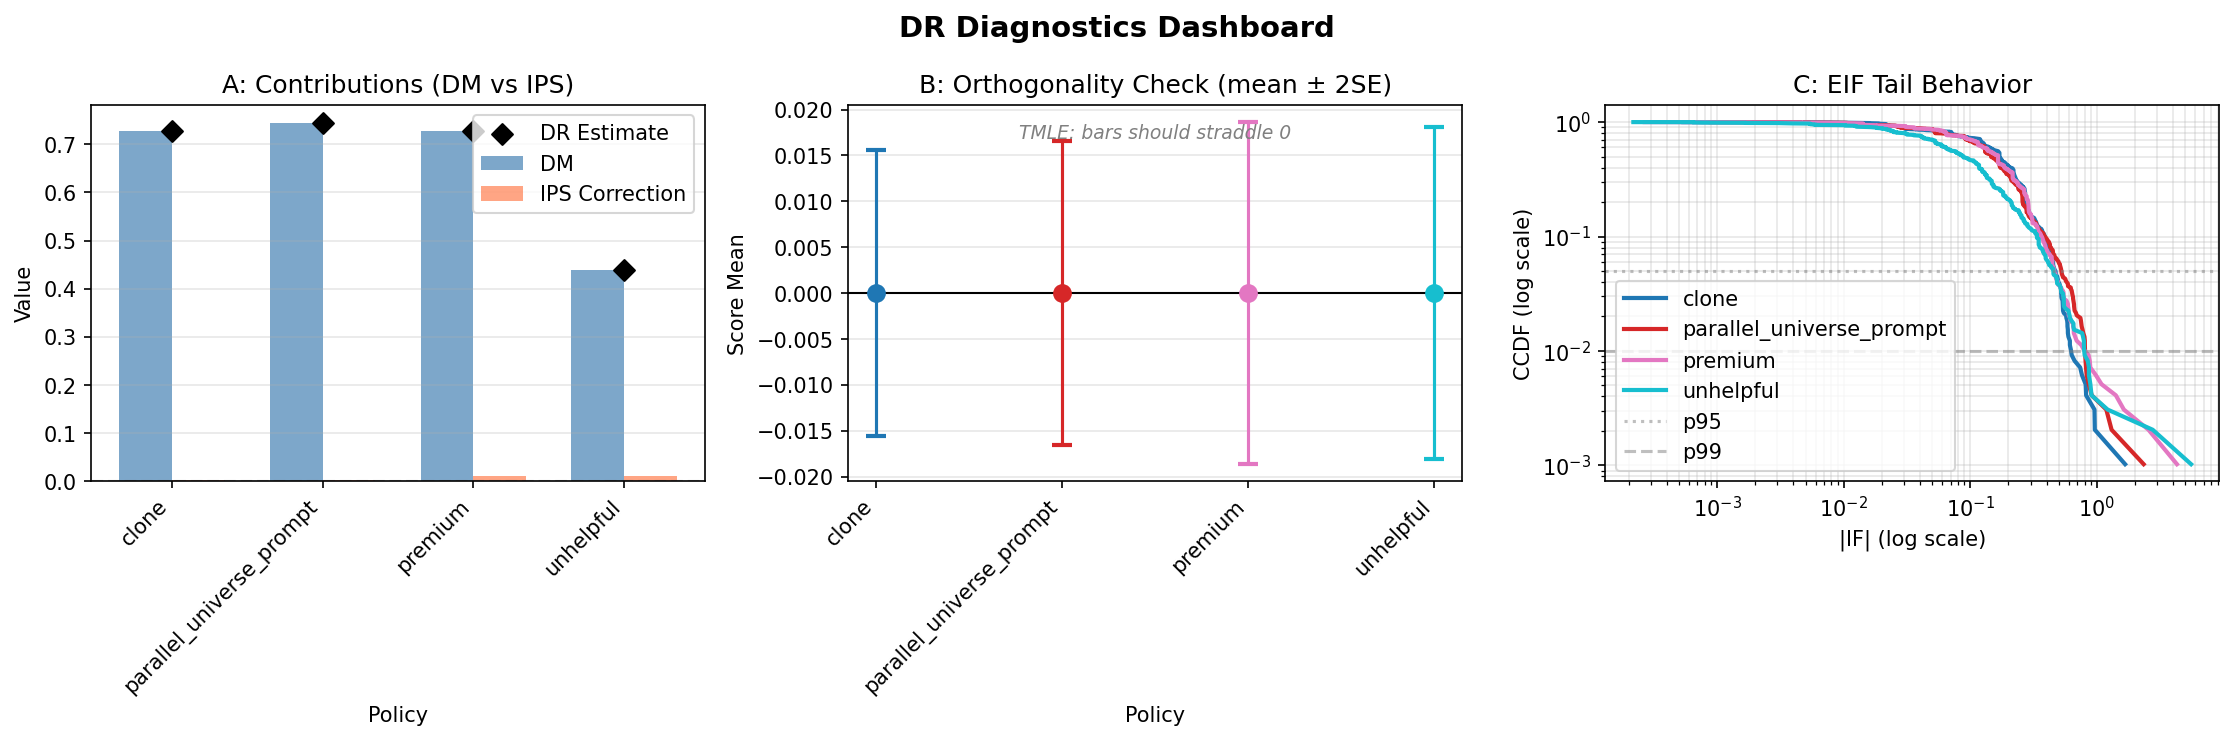
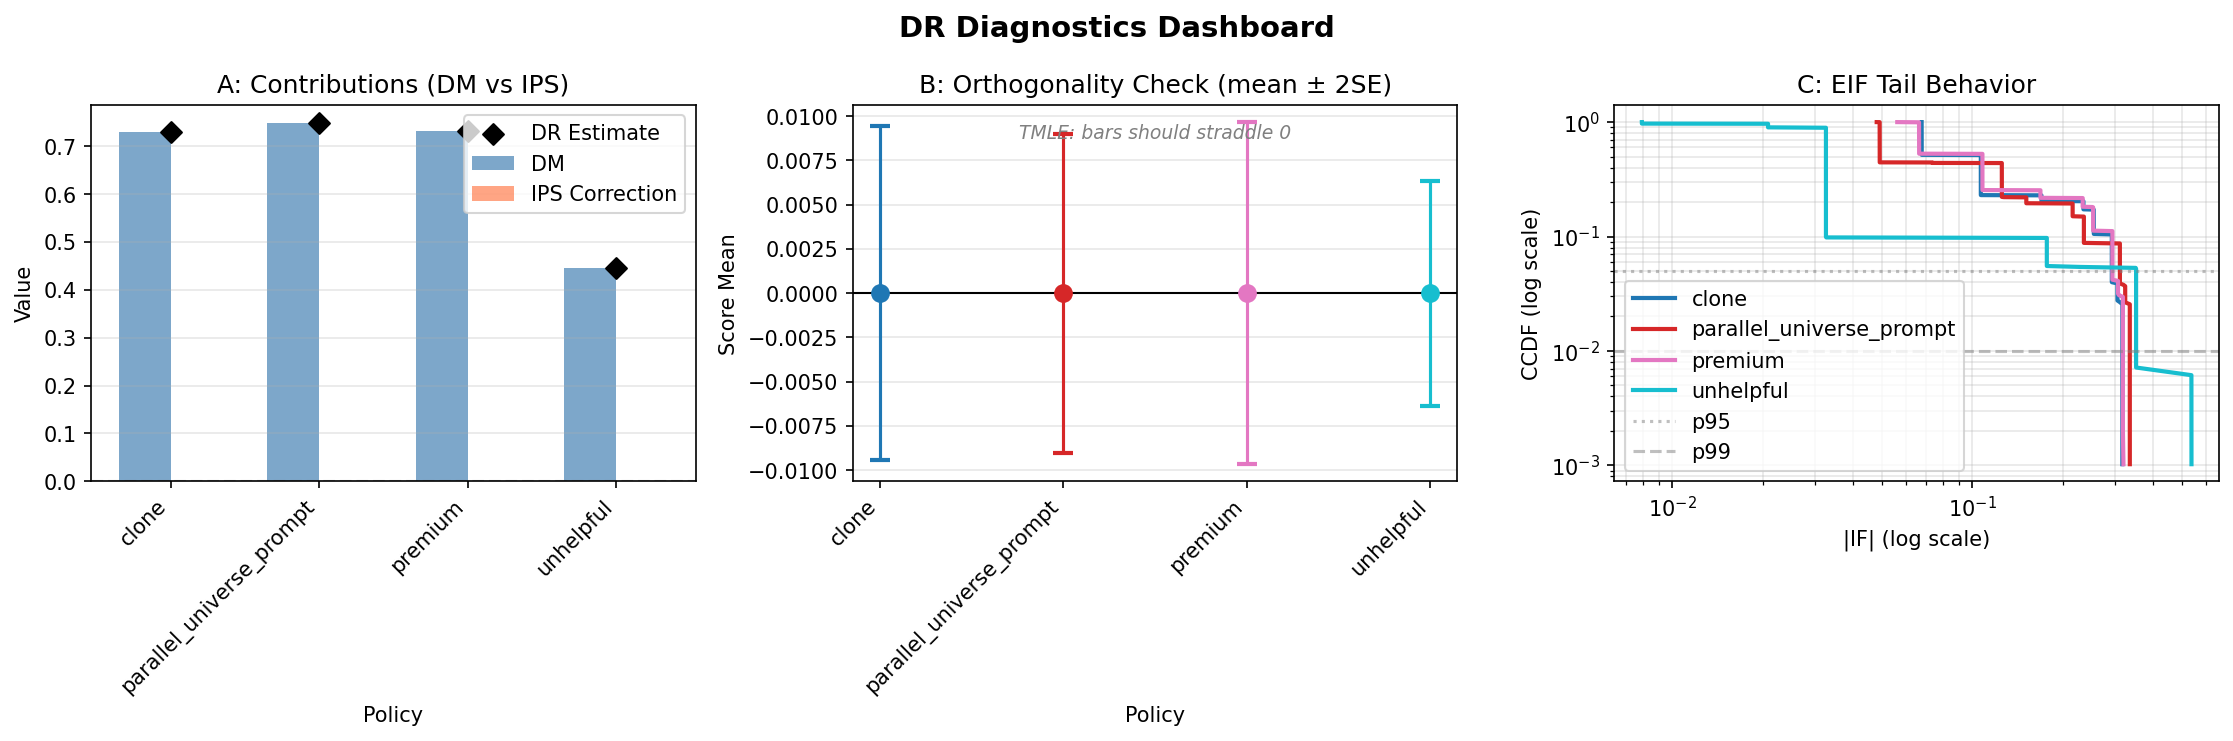
fix: Populate DR decomposition values in diagnostics
- Add dm_ips_decompositions and orthogonality_scores fields to DRDiagnostics
- Populate these fields in dr_base.py when creating diagnostics
- Update display utility to show decomposition values as fallback
- Build DR diagnostics directly in estimate() instead of relying on DiagnosticSuite
- Now DR diagnostics show actual DM/IPS decomposition values instead of zeros

diff --git a/cje/estimators/dr_base.py b/cje/estimators/dr_base.py
@@ -591,13 +591,27 @@ class DREstimator(BaseCJEEstimator):
             "dm_ips_decompositions": self._dm_ips_decompositions,  # New: DM-IPS breakdown
         }
 
+        # Get IPS diagnostics if available
+        ips_diag = None
+        if hasattr(self.ips_estimator, "get_diagnostics"):
+            ips_diag = self.ips_estimator.get_diagnostics()
+
+        # Build DR diagnostics directly
+        dr_diagnostics = self._build_dr_diagnostics(
+            estimates,
+            standard_errors,
+            n_samples_used,
+            dr_diagnostics_per_policy,
+            ips_diag,
+        )
+
         return EstimationResult(
             estimates=np.array(estimates),
             standard_errors=np.array(standard_errors),
             n_samples_used=n_samples_used,
             method="dr_base",
             influence_functions=self._influence_functions,
-            diagnostics=None,  # Will be populated by fit_and_estimate in base class
+            diagnostics=dr_diagnostics,
             metadata=metadata,
         )
 
@@ -682,6 +696,8 @@ class DREstimator(BaseCJEEstimator):
                 outcome_rmse_mean=outcome_rmse_mean,
                 worst_if_tail_ratio=worst_if_tail,
                 dr_diagnostics_per_policy=dr_diagnostics_per_policy,
+                dm_ips_decompositions=self._dm_ips_decompositions,
+                orthogonality_scores=self._orthogonality_scores,
                 influence_functions=self._influence_functions,
             )
         else:
@@ -711,6 +727,8 @@ class DREstimator(BaseCJEEstimator):
                 outcome_rmse_mean=outcome_rmse_mean,
                 worst_if_tail_ratio=worst_if_tail,
                 dr_diagnostics_per_policy=dr_diagnostics_per_policy,
+                dm_ips_decompositions=self._dm_ips_decompositions,
+                orthogonality_scores=self._orthogonality_scores,
                 influence_functions=self._influence_functions,
             )
 

diff --git a/cje/utils/diagnostics/display.py b/cje/utils/diagnostics/display.py
@@ -151,8 +151,17 @@ def format_dr_diagnostic_summary(
                 ips_corr = policy_diag.get("ips_corr_mean", 0.0)
                 if_tail = policy_diag.get("if_tail_ratio_99_5", 0.0)
             else:
-                dm = 0.0
-                ips_corr = 0.0
+                # Try decomposition if policy diagnostics not available
+                if (
+                    diagnostics.dm_ips_decompositions
+                    and policy in diagnostics.dm_ips_decompositions
+                ):
+                    decomp = diagnostics.dm_ips_decompositions[policy]
+                    dm = decomp.get("dm_component", 0.0)
+                    ips_corr = decomp.get("ips_augmentation", 0.0)
+                else:
+                    dm = 0.0
+                    ips_corr = 0.0
                 if_tail = 0.0
 
             lines.append(

diff --git a/cje/data/diagnostics.py b/cje/data/diagnostics.py
@@ -272,6 +272,10 @@ class DRDiagnostics(IPSDiagnostics):
     # Detailed per-policy diagnostics (for visualization and debugging)
     dr_diagnostics_per_policy: Dict[str, Dict[str, Any]] = field(default_factory=dict)
 
+    # DR decomposition results
+    dm_ips_decompositions: Dict[str, Dict[str, Any]] = field(default_factory=dict)
+    orthogonality_scores: Dict[str, Dict[str, Any]] = field(default_factory=dict)
+
     # Optional influence functions (can be large)
     influence_functions: Optional[Dict[str, np.ndarray]] = None
 
